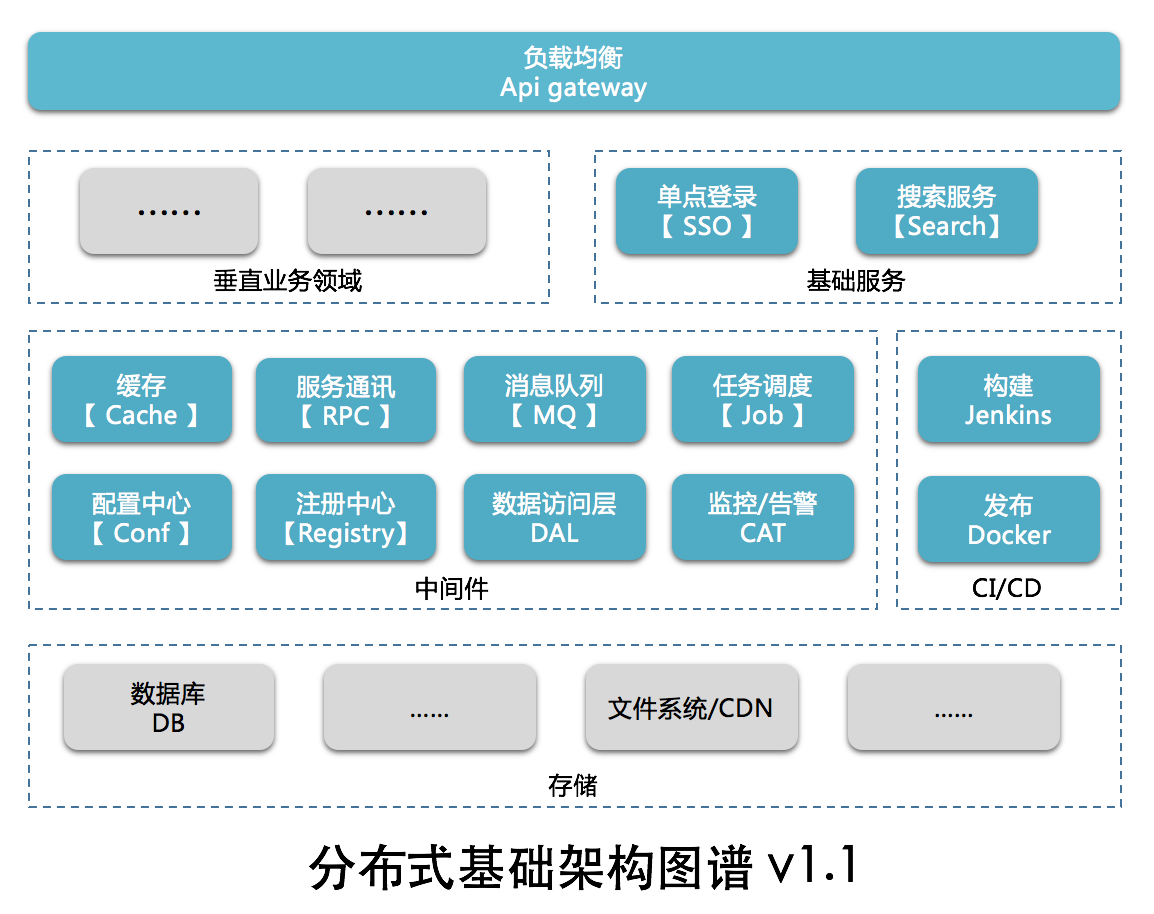
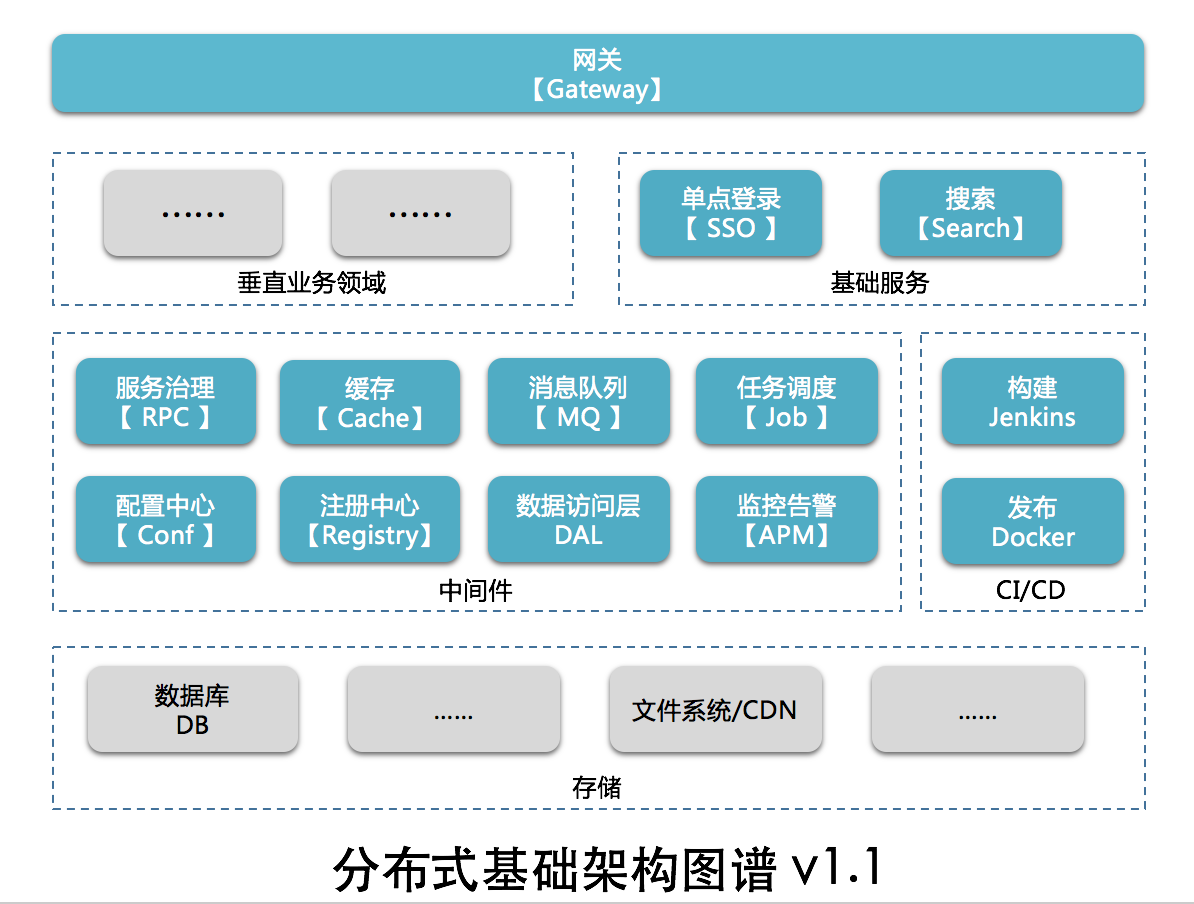
update document

diff --git a/blog/notebook/1-基础架构与中间件/基础架构与中间件图谱.md b/blog/notebook/1-基础架构与中间件/基础架构与中间件图谱.md
@@ -15,6 +15,53 @@
 
 ![image](https://raw.githubusercontent.com/xuxueli/xuxueli.github.io/master/blog/static/images/img_infrastructure_middleware_map.png )
 
-### Api gateway
 
-……
+
+### 基础中间件
+
+#### 1、网关（XXL-GATEWAY、sc-gateway）
+关键字：服务泛化调用，服务发现
+
+#### 2、服务（XXL-RPC）
+关键字：远程调用，注册发现
+
+#### 3、缓存（XXL-CACHE）
+关键字：redis cluster，SDK
+
+#### 4、队列（XXL-MQ）
+
+#### 5、调度（XXL-JOB）
+
+#### 6、配置（XXL-CONF）
+
+#### 7、注册中心（XXL-REGISTRY）
+
+#### 8、数据库访问层（XXL-DAL、zebra、sharding-jdbc）
+关键字：读写分离、分库分表
+
+#### 9、监控报警（XXL-APM、Cat）
+关键字：性能、调用链
+
+
+
+### 基础服务
+
+#### 10、单点登录（XXL-SSO）
+
+#### 11、搜索（XXL-SEARCH、ES）
+
+
+
+### CI、CD
+
+#### 12、CI：Jenkins
+#### 13、CD：Docker
+
+
+
+### 存储
+
+#### 14、数据库：主从/mysql
+#### 15、文件系统/CDN：云服务
+
+

diff --git a/blog/README.md b/blog/README.md
@@ -2,16 +2,9 @@
 >思绪来得快去得也快，偶尔会在这里停留
 
 
-### 一、《基础架构与中间件》专题【完善中】
-- 1、Api网关：
-- 2、服务通讯与治理
-- 3、缓存
-- 4、消息队列
-- 5、任务调度
-- 6、配置中心
-- 7、监控告警
-- 8、日志中心
-- [基础架构与中间件图谱](notebook/1-基础架构与中间件/99-基础架构与中间件图谱.md )
+### 一、《基础架构与中间件》专题
+
+- [基础架构与中间件图谱](notebook/1-基础架构与中间件/基础架构与中间件图谱.md )
 
 
 ---
